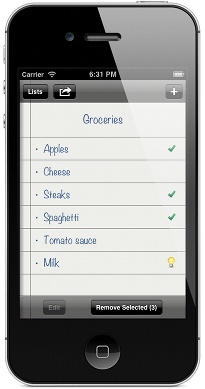
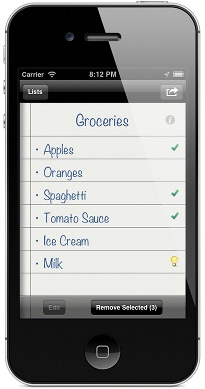
Mart's Lists Version 2.0

Changed region(s): [[0.0878, 0.1851, 0.9073, 0.7404]]

diff --git a/apps/martslists.md b/apps/martslists.md
@@ -2,26 +2,33 @@
 layout: page
 group: app
 title: Mart's Lists are smart lists
-short-descr: Lets you create and manage lists easily, learns automatically if an item is added regularly and supports dictation.
+short-descr: Lets you create and manage lists easily, can learn automatically if an item is added regularly, can be set to be location-aware and supports dictation.
 appstore-en: http://itunes.apple.com/en/app/marts-lists-are-smart-lists/id488513021
 appstore-de: http://itunes.apple.com/de/app/marts-lists-are-smart-lists/id488513021
+appstore-fr: http://itunes.apple.com/fr/app/marts-lists-are-smart-lists/id488513021
 ---
 
 {% include app_header.md %}
 
-Mart's Lists lets you create and manage lists easily. It provides a convenient pad-like way to browse through your lists. Mart's Lists is designed to allow you to select and remove items efficiently. So if you use Mart's Lists to maintain your shopping list, you'll be able to check and remove items from your list right when you put them in your shopping cart.
+Mart's Lists lets you create and manage smart lists. Browse from list to list and add or remove items easily. And if you want it to Mart's Lists can learn automatically if an item is added regularly and in which interval. So use Mart's Lists regularly and it will remind you to buy milk or bread when it's appropriate by adding those items to your lists with little light bulbs next to them!
 
 {% include app_screenshot.md %}
 
-But the most exciting feature of Mart's Lists is its brainpower. If you allow it to, Mart's Lists will learn automatically if an item is required regularly and in which interval. Use Mart's Lists regularly and it will remind you to buy milk or bread when it's appropriate by adding learned items to your list as suggestions with a little bright light bulb. To make your life even more comfortable Mart's Lists supports dictation of your lists on the brand new iPhone 4S!
+You can select new items from a drop-down list with previously entered items too. This drop-down list is filtered to match your current input and is sorted so that the most likely items appear on top. Mart's Lists brainpower is all about saving you time!
 
-Just dictate your items separating them with "and" and after you had a chance to review and possibly correct your input Mart's Lists will add the items to your list. This works with written text too but is most convenient when dictating to the iPhone 4S!
+And to make your life even more comfortable Mart's Lists supports dictation of items on the new iPhone 4S! Just dictate your items separating them with "and" and after you had a chance to review and possibly correct your input Mart's Lists will add the items to your list.
 
-Some of the features of Mart's Lists are:
-* Convenient, pad-like interface
-* Efficient way to check and remove items
-* Can learn to suggest items you add regularly
-* Designed to work well with dictation on iPhone 4S
-* Completely accessible (VoiceOver)
+You can even associate locations with lists of yours! Mart's Lists will inform you if you approach or leave an associated location and if there are items on the corresponding lists. You need to buy something but you don't think of buying it even though you are near your favorite store? Don't worry! Mart's Lists can remind you.
+
+Features:
+* Create and manage intelligent lists
+* Can suggest items you add regularly
+* Can remind you of lists when you approach or leave a location (iPhone 4 or newer)
+* Designed to work well with dictation (iPhone 4S)
+* Convenient and efficient way to manage items
+* Print lists or send them as emails or text messages
+* Shake your device to undo (or redo) changes
+* Reorder lists and items (e. g. according to priority)
+* Mart's Lists is completely accessible and supports VoiceOver!
 
 {% include app_footer.md %}

diff --git a/support/martslists.md b/support/martslists.md
@@ -17,4 +17,7 @@ group: support
 * *Can Mart's Lists learn different suggestions for different lists?*   
   Yes. Suggestions and their intervals are always unique to each list.
 
+* *How can I reorder lists and items?*   
+	Tap on the action button in the upper left or right corner and select "Reorder Lines". You can also tap and hold on any list to enable the edit mode.
+
 {% include support_footer.md %}

diff --git a/_includes/app_footer.md b/_includes/app_footer.md
@@ -1,2 +1,2 @@
 
-Download "{{ page.title }}" in the App Store in [English]({{ page.appstore-en }}) or [German]({{ page.appstore-de }}).
+Download "{{ page.title }}" on the App Store in [English]({{ page.appstore-en }}), [German]({{ page.appstore-de }}) or [French]({{ page.appstore-fr }}).
